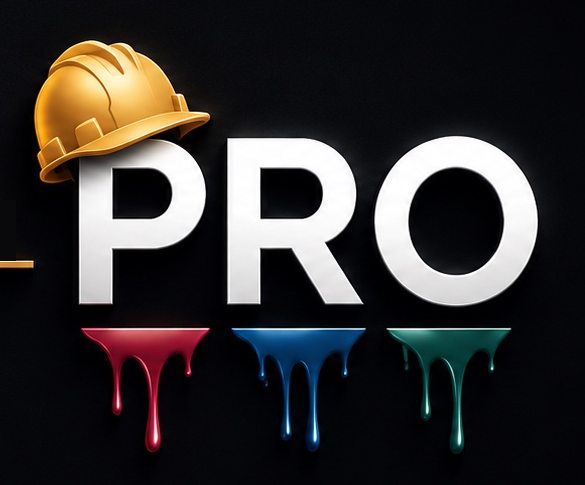
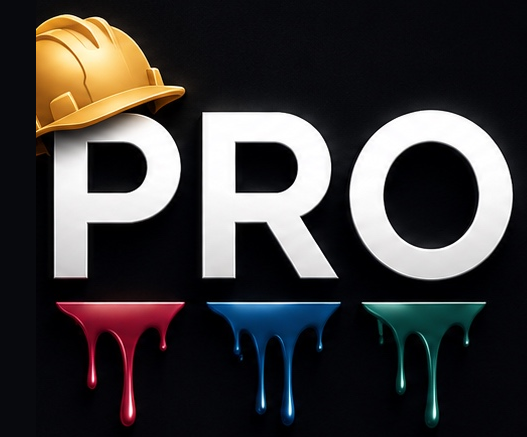
fix: tighter crop on the splash-screen PRO image
Remove excess black margin and mask a stray sliver from the GOREAL
'L' that was bleeding into the left edge of the hardhat+PRO+drips
crop.

Changed region(s): [[0.0304, 0.0297, 0.9715, 0.9817], [0.5161, 0.5355, 0.5465, 0.595], [0.0, 0.5355, 0.0607, 0.5652]]

diff --git a/landing/app/flutter_service_worker.js b/landing/app/flutter_service_worker.js
@@ -7,7 +7,7 @@ const RESOURCES = {"assets/AssetManifest.bin": "ff2aa7f7db47fa8b06af5ec00b770560
 "assets/AssetManifest.bin.json": "a5a6959d7ecbcd93e95883f6c9b6e475",
 "assets/assets/images/background.png": "114b29053224f6b08c8e3bee65ced2a0",
 "assets/assets/images/background_chat.png": "b7ddabc6787d8a3e9a6cea50fd458685",
-"assets/assets/images/gorealpro_pro_only.png": "a4970731211b32a9329430a1247d7cea",
+"assets/assets/images/gorealpro_pro_only.png": "9b5c09eaef44314dd8967c4e5ee05c81",
 "assets/assets/images/gorealpro_wordmark.png": "3dc3a2fd802de5655681148cf0960a89",
 "assets/assets/images/gorilla_head.png": "af83378f718e82c44fe5409f2d21e7ce",
 "assets/assets/images/gorilla_left.png": "0efff5ebe6c47ac4dfa252f041663133",
@@ -40,7 +40,7 @@ const RESOURCES = {"assets/AssetManifest.bin": "ff2aa7f7db47fa8b06af5ec00b770560
 "favicon.png": "5dcef449791fa27946b3d35ad8803796",
 "firebase-messaging-sw.js": "c273b500781a50712c21eae615c37c3c",
 "flutter.js": "24bc71911b75b5f8135c949e27a2984e",
-"flutter_bootstrap.js": "2a31a3e46a12cb8acc8fc58673801551",
+"flutter_bootstrap.js": "8b7c7e9b663b06cabac8779983fa5b40",
 "icons/gorealai.svg": "f999b497865e10df2098aa97c6aee492",
 "icons/Icon-192-maskable.png": "92d267396b56382e759e34c40e080c5c",
 "icons/Icon-192.png": "92d267396b56382e759e34c40e080c5c",

diff --git a/landing/app/flutter_bootstrap.js b/landing/app/flutter_bootstrap.js
@@ -38,6 +38,6 @@ _flutter.buildConfig = {"engineRevision":"587c18f873b8ab57330422bce09047420d9c7f
 
 _flutter.loader.load({
   serviceWorkerSettings: {
-    serviceWorkerVersion: "3396871832"
+    serviceWorkerVersion: "2037766160"
   }
 });
